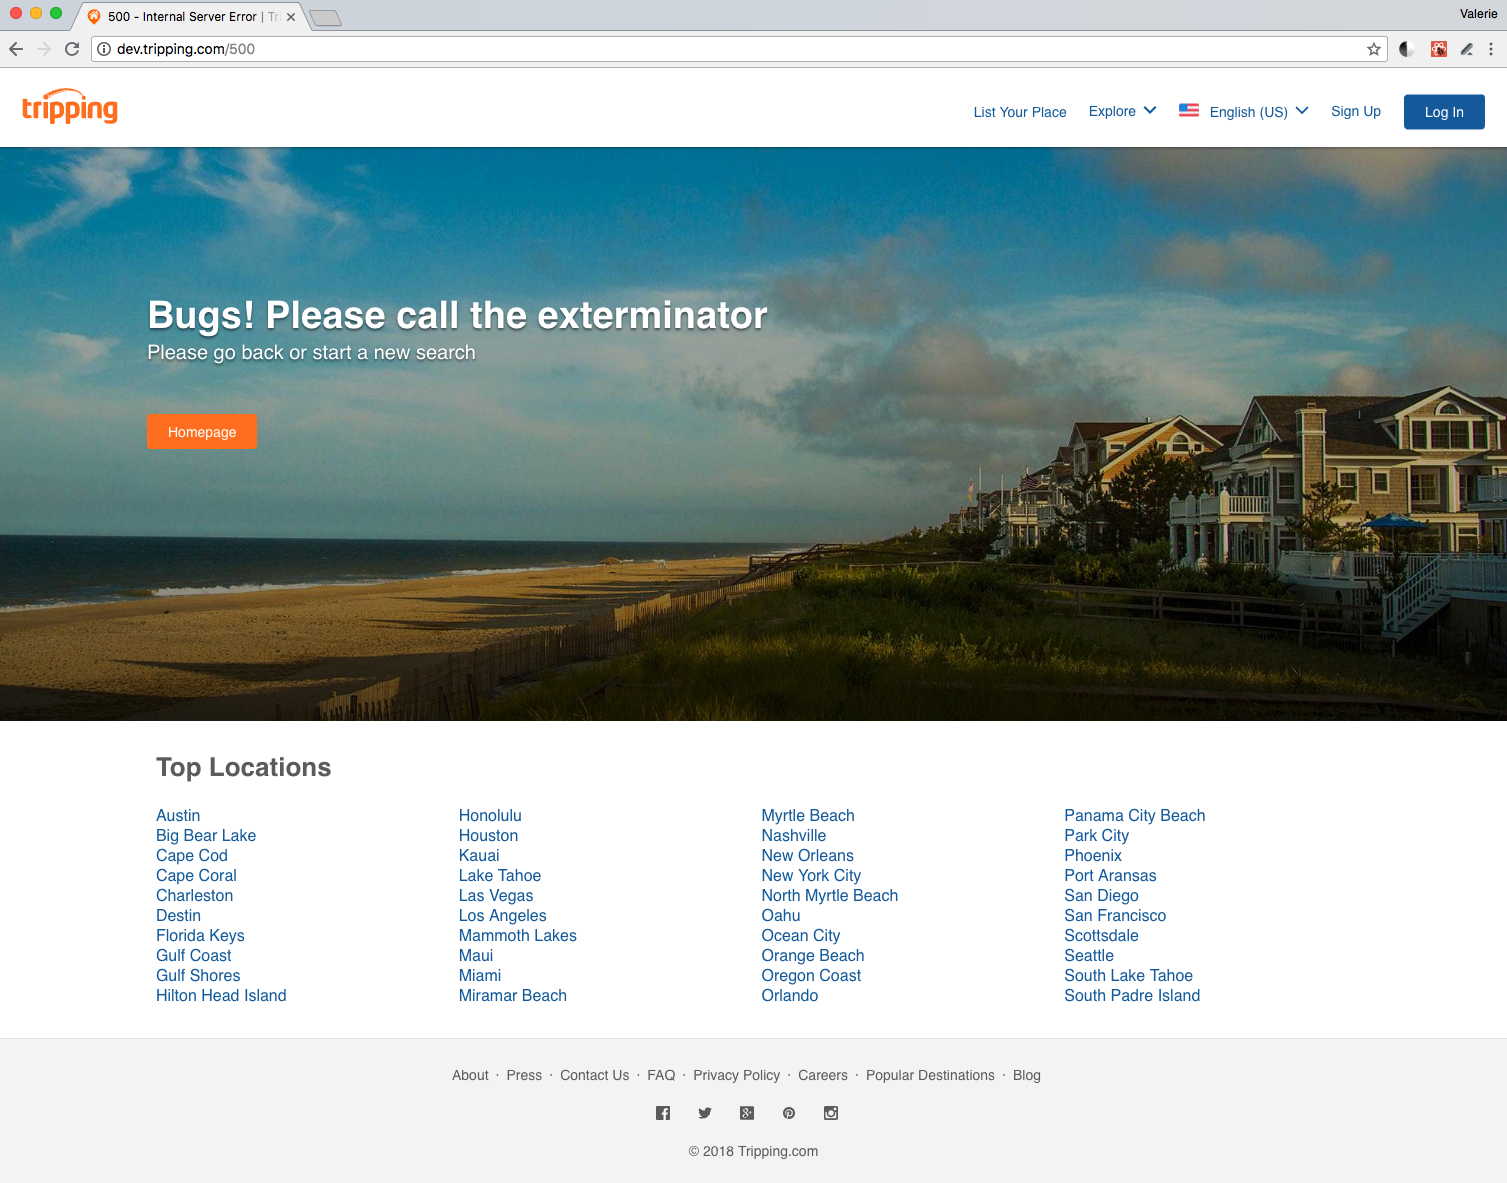
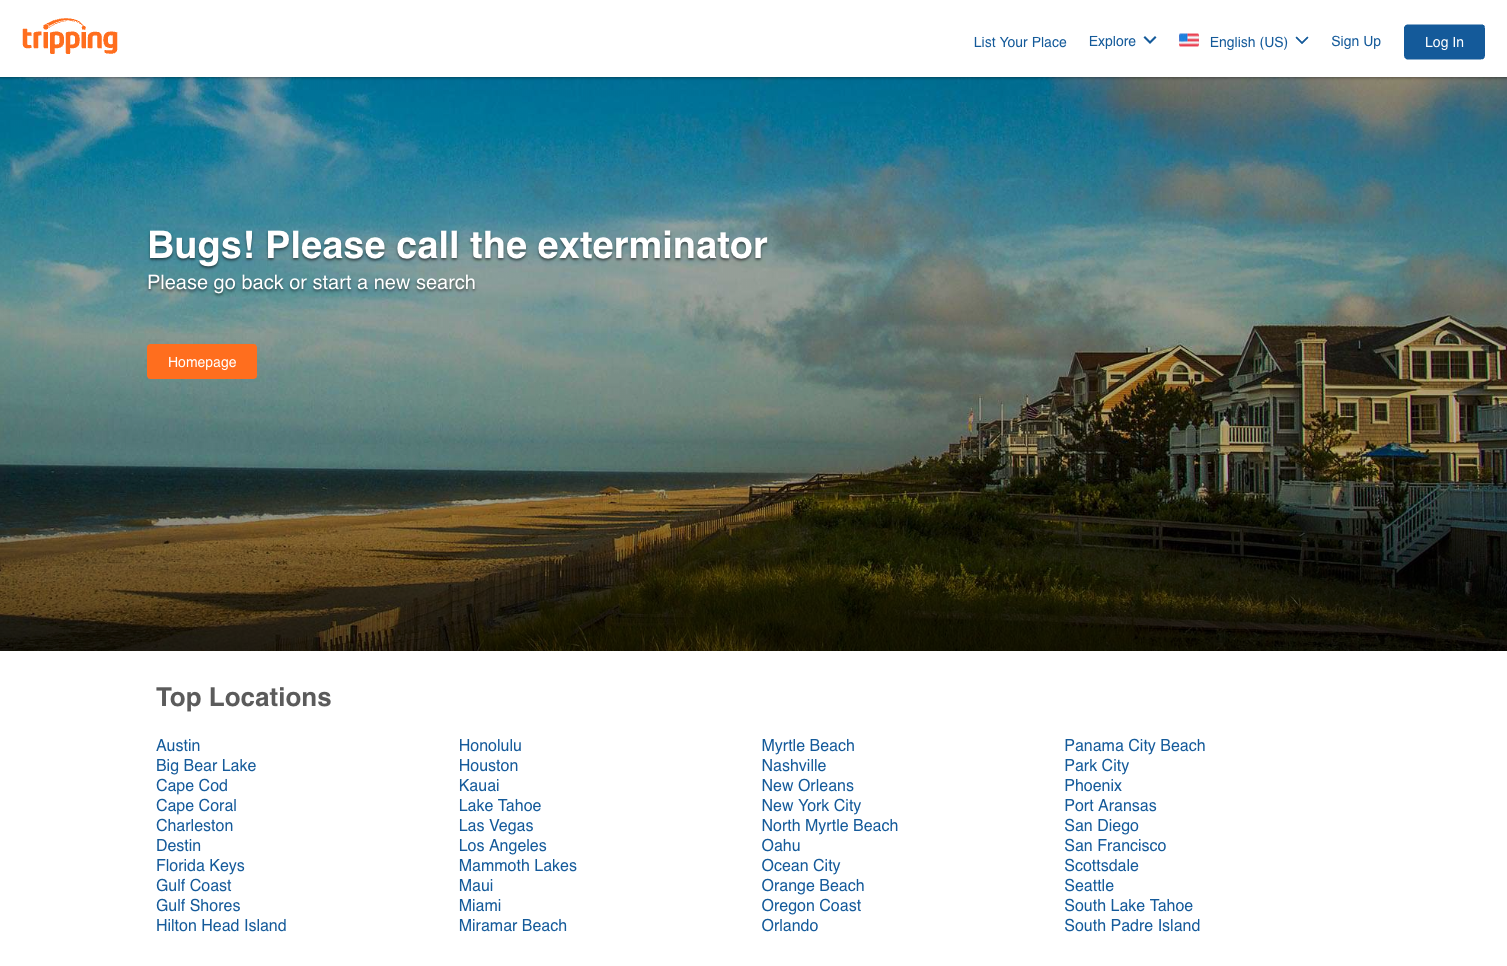
Add TOC, update images and text

diff --git a/README.md b/README.md
@@ -1,11 +1,18 @@
-# Vélocity
+# Tripping Portfolio
 
 Below is a sample of the work I've contributed to at Tripping, now that the original website has been taken down (following an acquisition).
+
+## Table of Contents
+[Overhauling the error page](https://github.com/valeriewilson/tripping#overhauling-the-error-page)
 
 
 ## Overhauling the error page
 
-I built out the new error page, from the controller to the bootstrap, wrapper, and JSX/React view files.  I also refactored existing code by removing duplicate html.erb pages for each status code, replacing them with a single dynamic html.erb file.
+Work done here:
+* Built out the new error page, from the controller to the bootstrap, wrapper, and JSX/React view files 
+* Incorporated an interal API to display the top locations by listing count instead of the original static list
+* Incorporated additional React components, such as the navbar, footer, and hero image to make consistent with the rest of the website
+* Refactored existing code by removing duplicate html.erb pages for each status code, replacing them with a single dynamic html.erb file; updated the routing accordingly
 
 Technologies
 * Ruby/Rails
@@ -21,3 +28,5 @@ Technologies
 ### After
 
 ![New error page](images/error-page-new.png)
+
+
